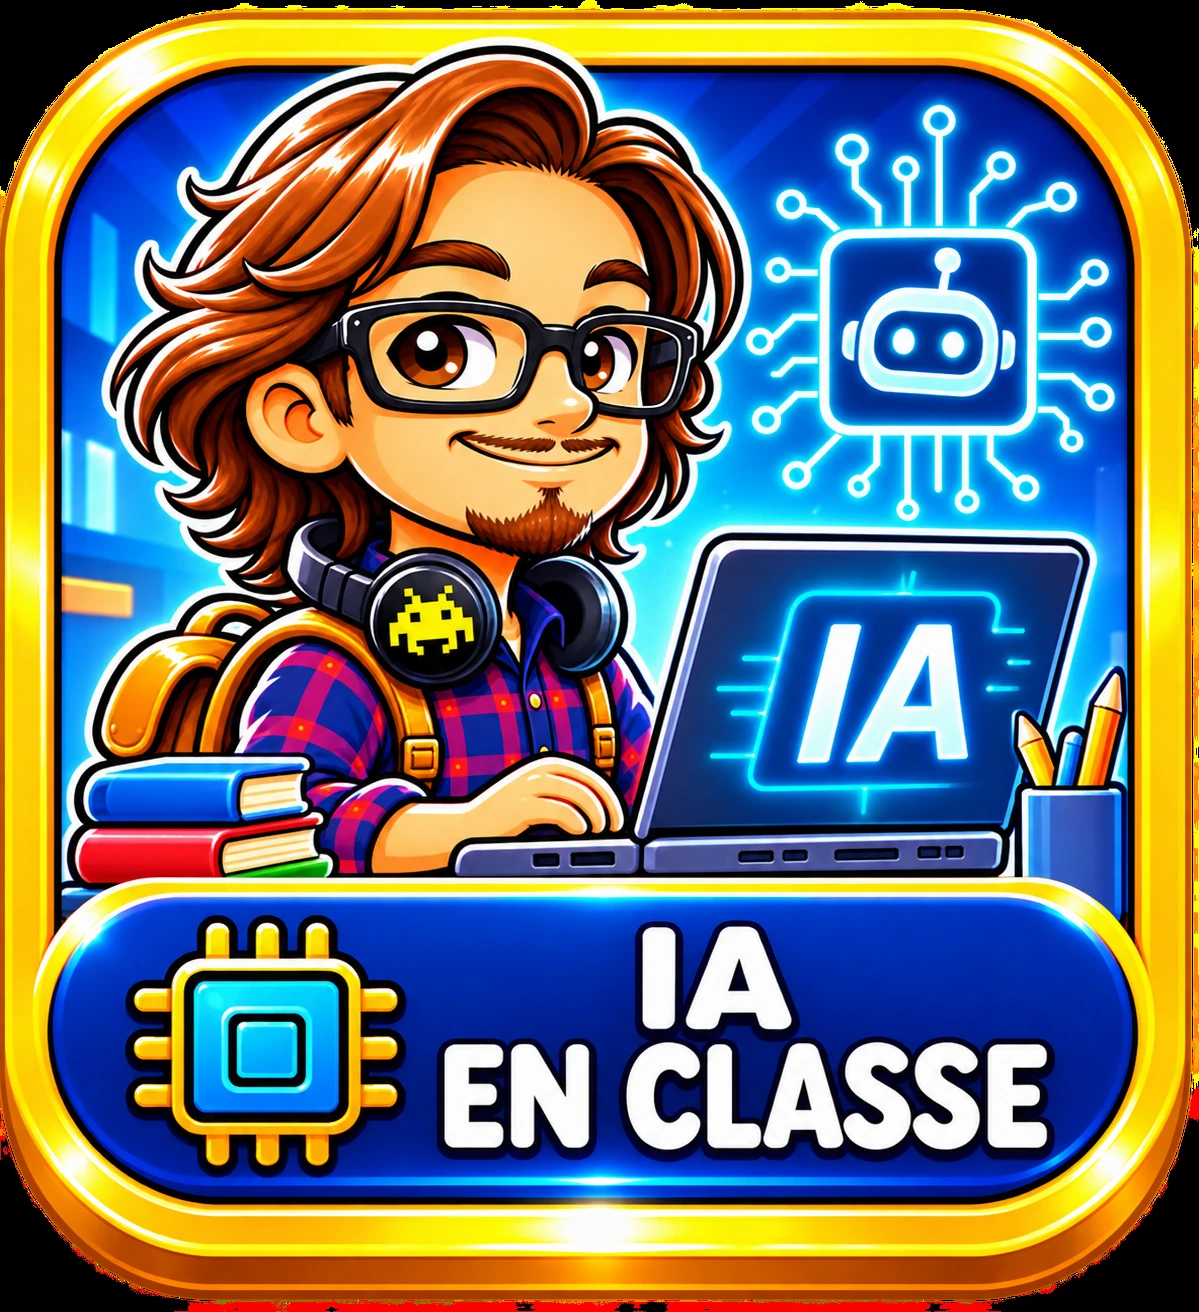
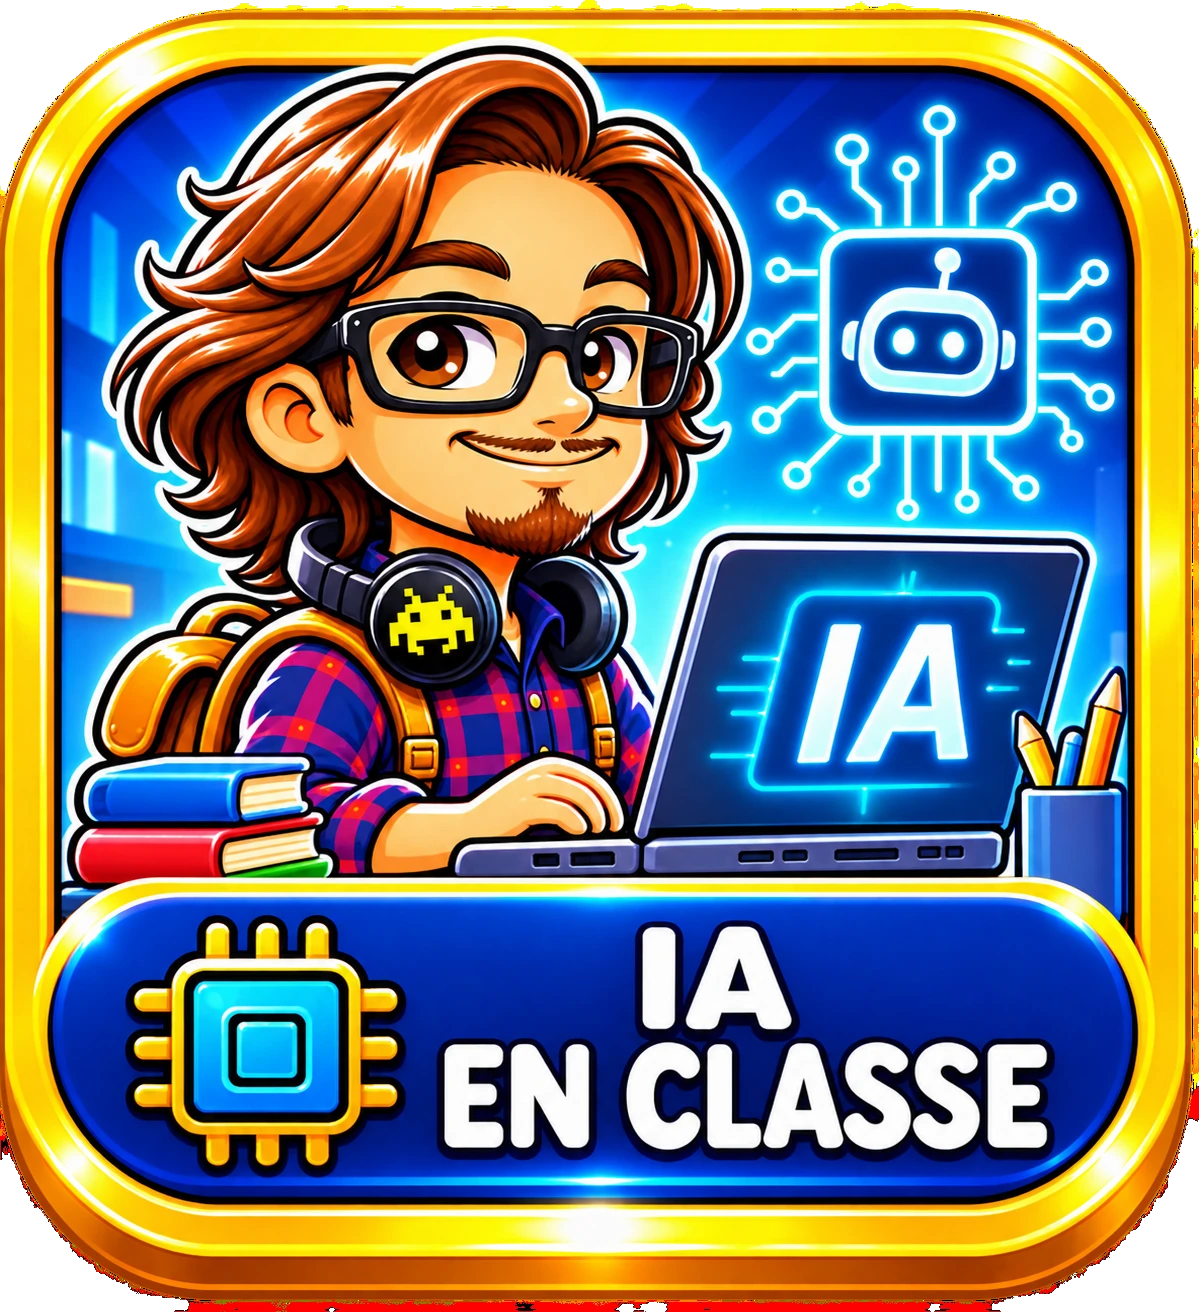
Add files via upload

diff --git a/index.html b/index.html
@@ -6413,13 +6413,13 @@ header .hero, .hero {background:transparent!important;border:0!important;overflo
   "use strict";
 
   var RUBRIQUES = [
-    { id: "apps", nom: "Mes apps & outils numériques", couleur: "#0019A8", img: "images/categories/apps-chibi.webp?v=10" },
-    { id: "classe", nom: "Classe & pédagogie", couleur: "#6A3BA0", img: "images/categories/classe-chibi.webp?v=10" },
-    { id: "ressources", nom: "Ressources à télécharger", couleur: "#DC241F", img: "images/categories/ressources-chibi.webp?v=10" },
-    { id: "culture", nom: "English & Culture", couleur: "#0098D4", img: "images/categories/culture-chibi.webp?v=10" },
-    { id: "ia", nom: "IA en classe", couleur: "#00782A", img: "images/categories/ia-chibi.webp?v=10" },
-    { id: "inter", nom: "Interdisciplinaire & transversal", couleur: "#00A4A7", img: "images/categories/inter-chibi.webp?v=10" },
-    { id: "liens", nom: "Liens utiles", couleur: "#E8B500", img: "images/categories/liens-chibi.webp?v=10" }
+    { id: "apps", nom: "Mes apps & outils numériques", couleur: "#0019A8", img: "images/categories/apps-chibi.webp?v=11" },
+    { id: "classe", nom: "Classe & pédagogie", couleur: "#6A3BA0", img: "images/categories/classe-chibi.webp?v=11" },
+    { id: "ressources", nom: "Ressources à télécharger", couleur: "#DC241F", img: "images/categories/ressources-chibi.webp?v=11" },
+    { id: "culture", nom: "English & Culture", couleur: "#0098D4", img: "images/categories/culture-chibi.webp?v=11" },
+    { id: "ia", nom: "IA en classe", couleur: "#00782A", img: "images/categories/ia-chibi.webp?v=11" },
+    { id: "inter", nom: "Interdisciplinaire & transversal", couleur: "#00A4A7", img: "images/categories/inter-chibi.webp?v=11" },
+    { id: "liens", nom: "Liens utiles", couleur: "#E8B500", img: "images/categories/liens-chibi.webp?v=11" }
   ];
 
   // Anciennes rubriques regroupées : un article qui les utilise encore
